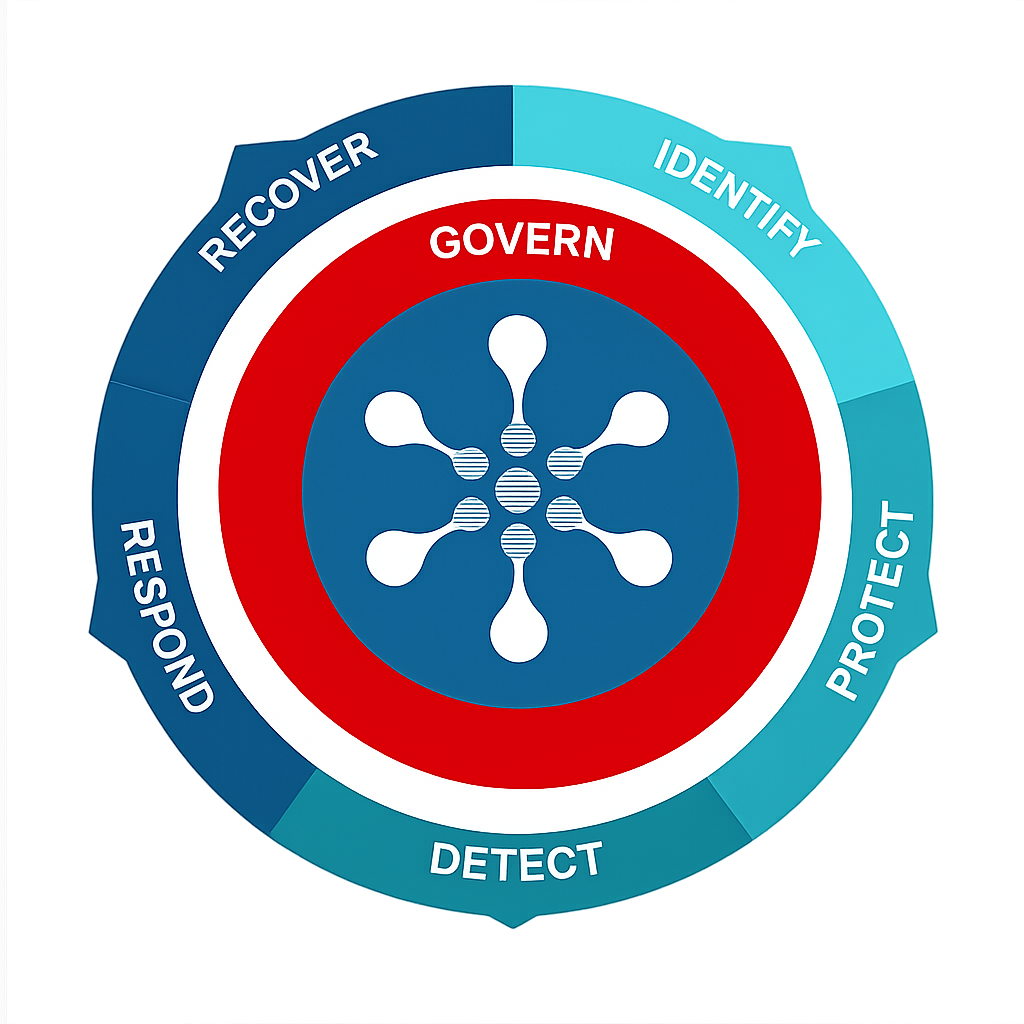
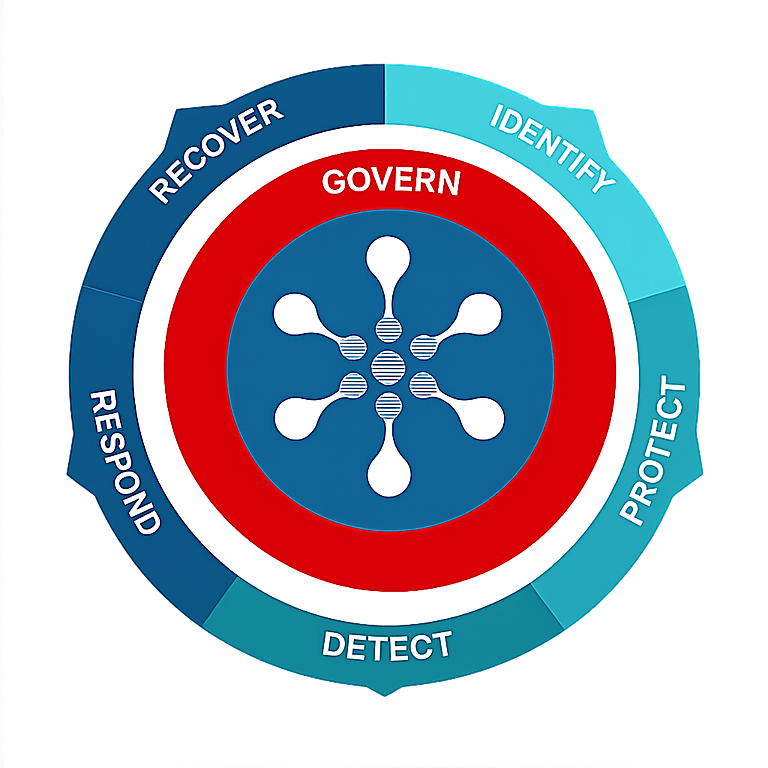
update 26.02.2026

diff --git a/docs/en/Security.md b/docs/en/Security.md
@@ -14,9 +14,9 @@ The platform consolidates Leonardo’s proprietary solutions and third-party tec
 
 Its building blocks are **Smart View** (intelligent interfaces that centralize governance of the cyber domain and provide real-time monitoring of the LCE’s cybersecurity posture), **AI Multi Agentic System** (specialized agents operating across the different NIST functions), **Use Cases** (operational use cases that provide intelligent integration and automation of data, processes, and technologies) and **Cyber Platforming** (the seamless integration of both Leonardo proprietary products and trusted third-party solutions).
 
-Through this platform, security events and telemetry related exclusively to the **LCE infrastructure** are centralized, correlated, and analysed, providing a unified and measurable view of the platform security posture and significantly enhancing **cyber observability** and **incident response capabilities at infrastructure level**.
-
 [![](assets/images/extract/media/security_2.png)](assets/images/extract/media/security_2.png)
+
+Through this platform, security events and telemetry related exclusively to the **LCE infrastructure** are centralized, correlated, and analysed, providing a unified and measurable view of the platform security posture and significantly enhancing **cyber observability** and **incident response capabilities at infrastructure level**.
 
 All activities are performed by **Italian qualified personnel** operating **under European Union jurisdiction**, ensuring that security monitoring, analysis, and decision-making functions for the LCE infrastructure remain under full European control.
 